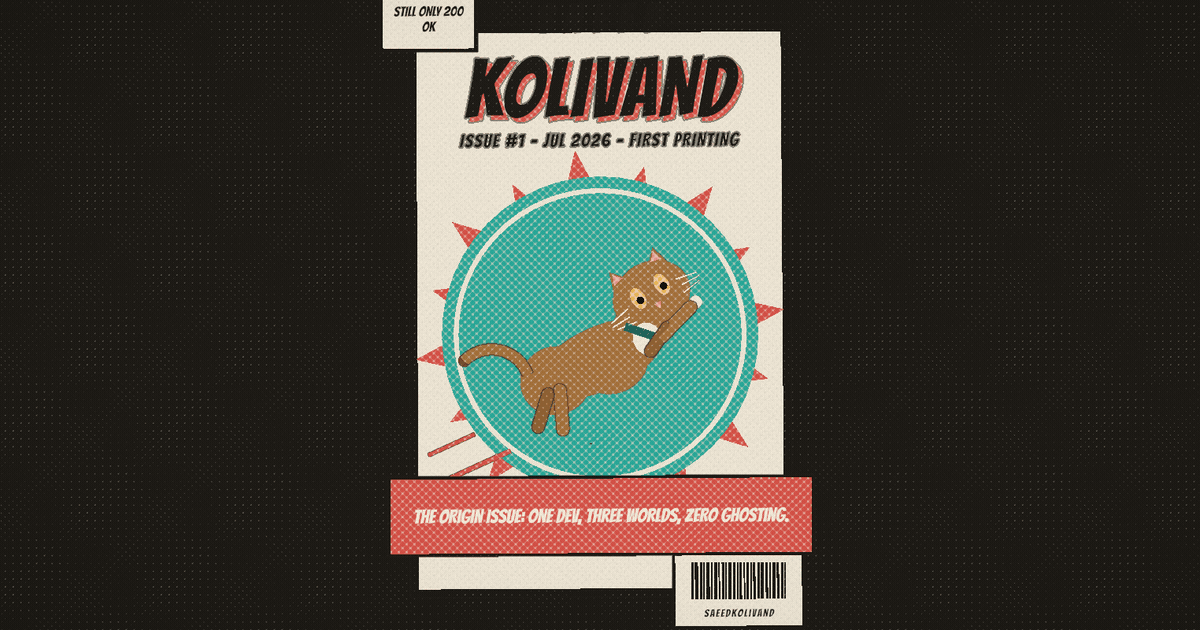
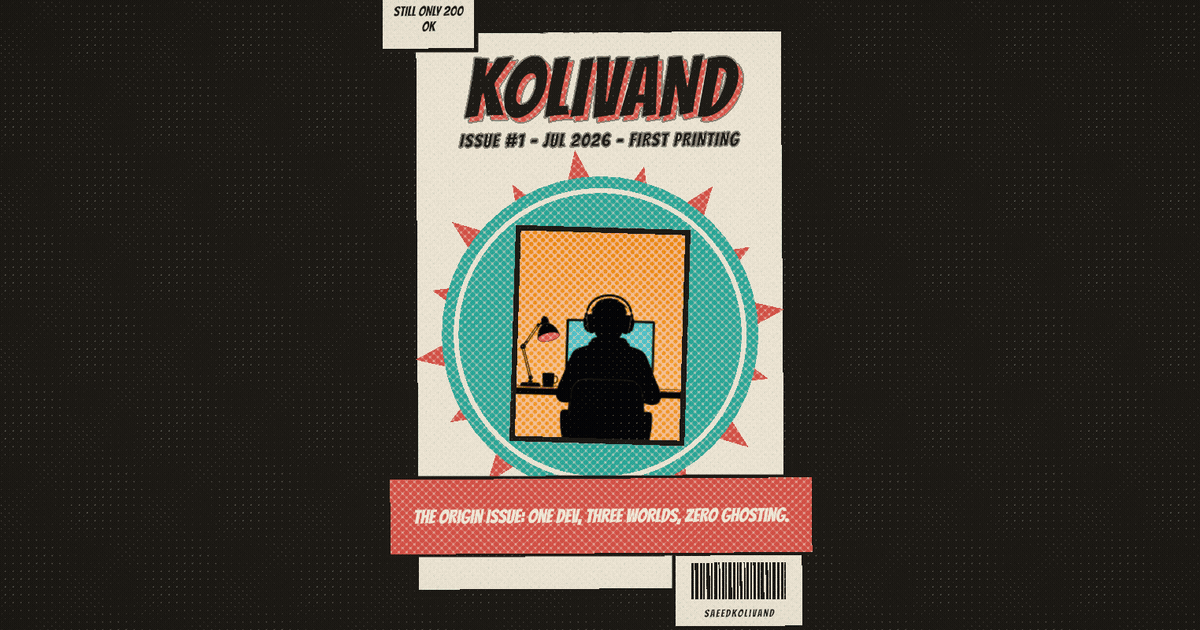
Re-shoot every capture that still showed the old cover
Swapping the cover art left five stale pictures of it, in two repos. All
of them are the same two frames, re-captured per docs/readme/CAPTURE.md
against the production export (dev bakes the "N" indicator into every
frame), 1600x800, ?audio=0, chrome hidden, headed on a real GPU.
scrollHeight came out at 20237, the exact sanity check the doc gives, so
this shoot matches the conditions of the original one.

  docs/readme/plates/00-cover.png  t=0.004  600x300
  docs/readme/hero.png             t=0.022  1100x550
  app/opengraph-image.png          t=0.022  1200x630, cropped 1524 wide first
  docs/readme/scroll.gif           96 frames, 640x320, 4.11 MB (was 4.13)

The fifth lives in the profile repo, and needs no commit there:
.github/scripts/update-readme.mjs copies this repo's 00-cover.png into
assets/shots/portfolio.png on a schedule, so the profile README follows
from the plate above once this lands.

Two alt texts also described the cat, including the one social platforms
read (app/opengraph-image.alt.txt). The README's other two Harley
mentions are left alone -- she is still the through-line in every issue
but the cover.

Claude-Session: https://claude.ai/code/session_014dfbC2dBF8R2pvx7fSy3Fk

diff --git a/README.md b/README.md
@@ -7,7 +7,7 @@
 [![next](https://img.shields.io/github/package-json/dependency-version/saeedkolivand/saeed-kolivand-portfolio/next?label=next&style=flat-square)](https://nextjs.org)
 
 <p align="center">
-  <a href="https://iamsaeed.dev/"><img src="docs/readme/hero.png" width="900" alt="The comic cover: Harley the tabby printed in halftone on a teal starburst under the KOLIVAND masthead"></a>
+  <a href="https://iamsaeed.dev/"><img src="docs/readme/hero.png" width="900" alt="The comic cover: a developer at a desk in headphones, printed in halftone on a teal starburst under the KOLIVAND masthead"></a>
 </p>
 
 <p align="center">
